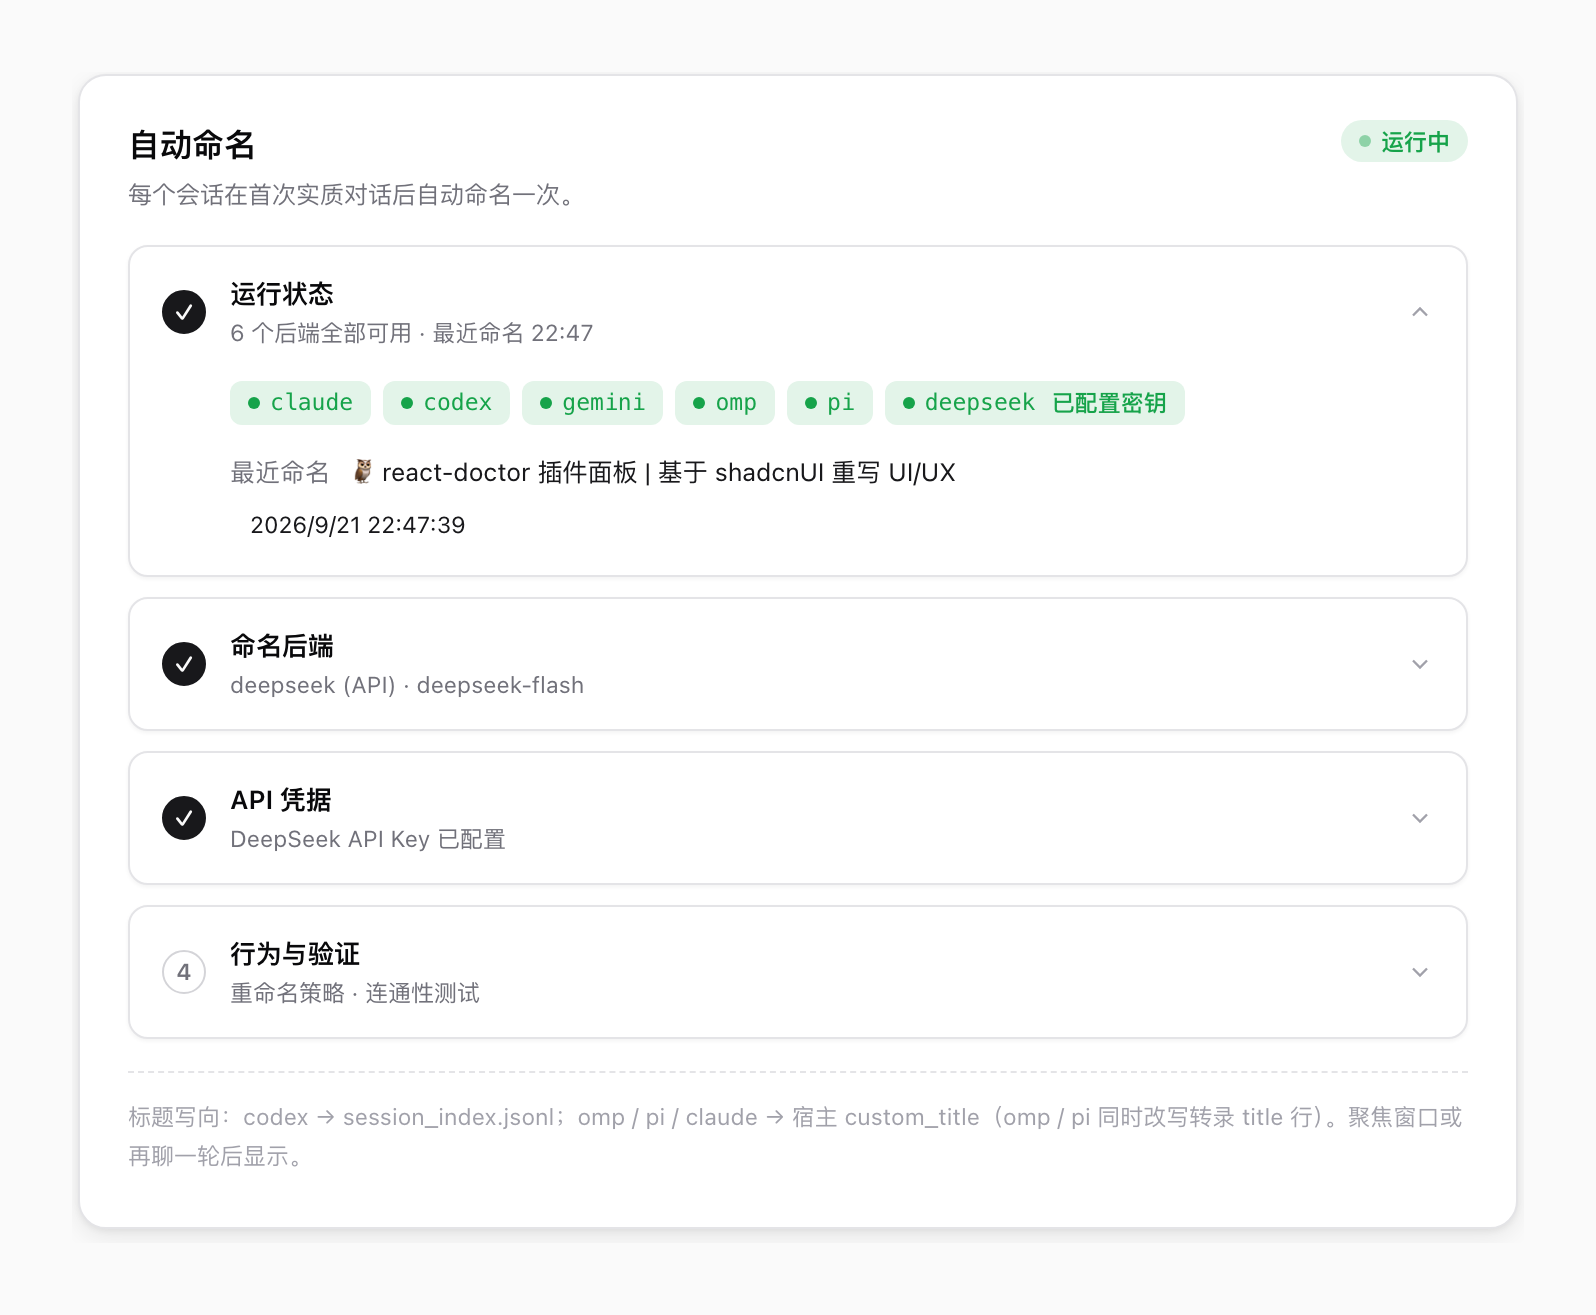
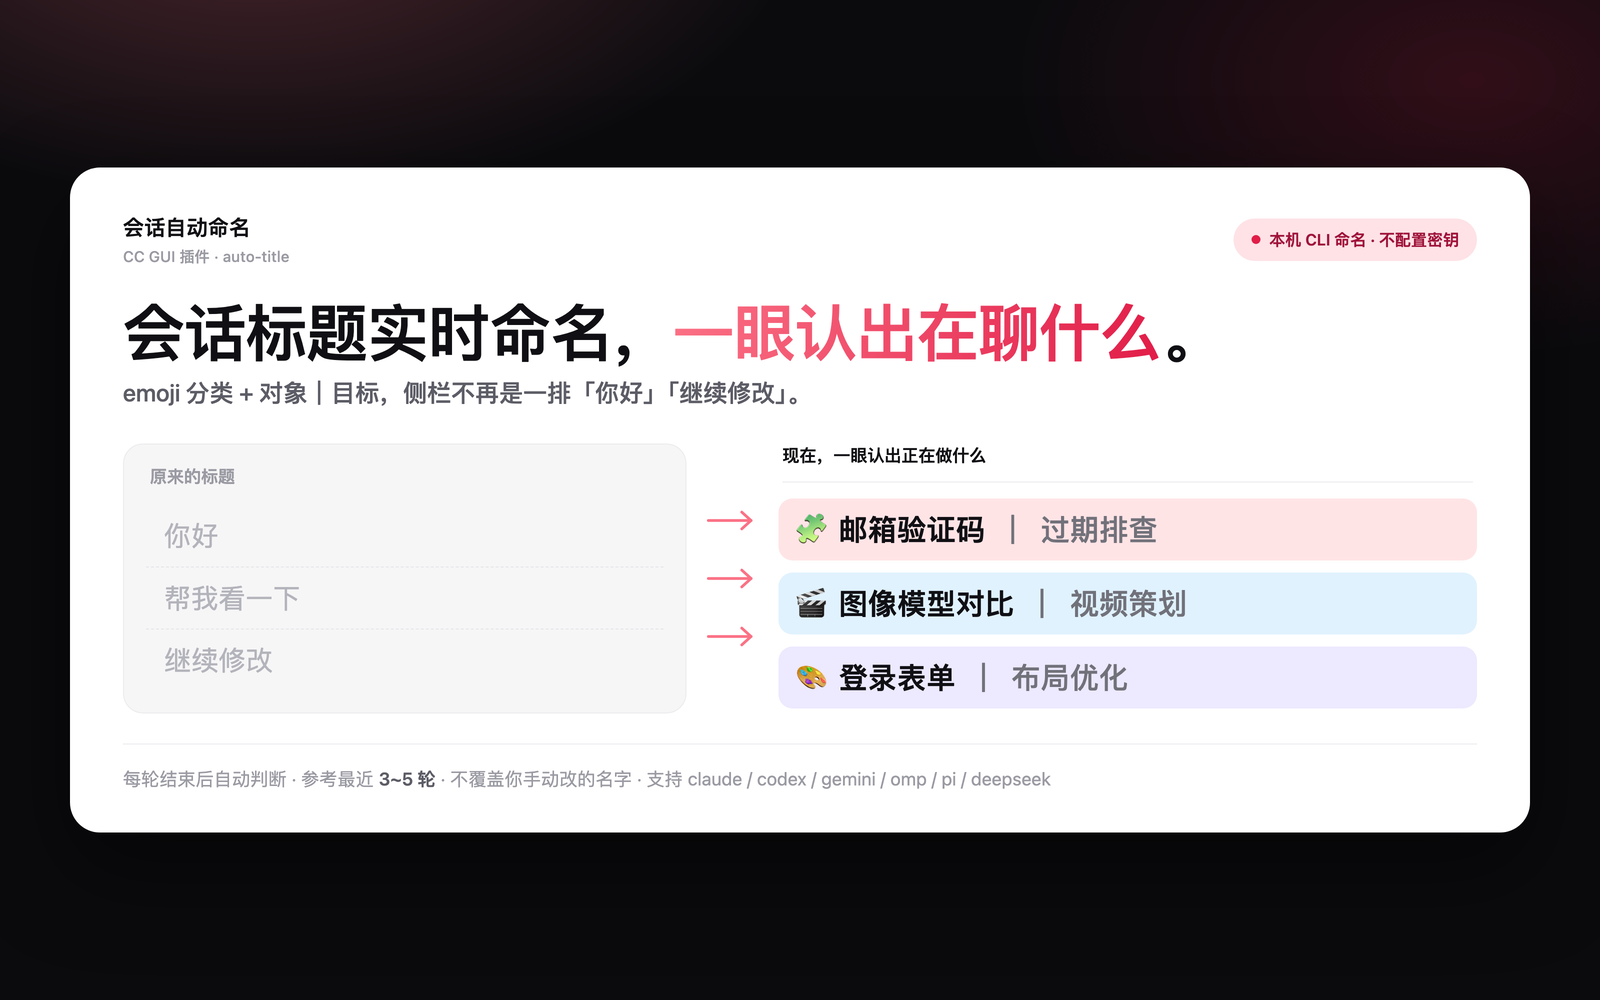
docs: 效果图改版——首图换成标题对照 hero
- 新增 design/auto-title-promo.html：旧标题（你好/帮我看一下/继续修改）→
  新标题（emoji + 对象｜目标）的对照式首图样式，与参考项目 README 同款式样
- docs/screenshot-1.png 换成该 hero（1600×1000）；原设置页浅/深色截图
  顺延为 screenshot-2/3.png，manifest 的 screenshots 同步为 3 张

diff --git a/design/auto-title-promo.html b/design/auto-title-promo.html
@@ -1,0 +1,145 @@
+<!doctype html>
+<html lang="zh-CN">
+<head>
+<meta charset="UTF-8" />
+<title>会话自动命名 · 效果图（hero）</title>
+<style>
+  :root {
+    --rose-1: #fb7185;
+    --rose-2: #e11d48;
+    --ink: #101014;
+    --ink-2: #5c5c66;
+    --ink-3: #9a9aa3;
+    --card: #ffffff;
+    --line: #ececef;
+    --soft: #f6f6f7;
+    --t1: #ffe4e6;
+    --t2: #e0f2fe;
+    --t3: #ede9fe;
+  }
+  * { box-sizing: border-box; }
+  html, body { margin: 0; }
+  body {
+    font-family: -apple-system, BlinkMacSystemFont, "PingFang SC", "Hiragino Sans GB",
+      "Microsoft YaHei", sans-serif;
+    background:
+      radial-gradient(900px 520px at 16% -12%, rgba(251, 113, 133, 0.28), transparent 62%),
+      radial-gradient(760px 460px at 92% 8%, rgba(225, 29, 72, 0.18), transparent 60%),
+      #0b0b0e;
+    min-height: 100vh;
+    display: flex;
+    align-items: center;
+    justify-content: center;
+    padding: 56px 64px;
+  }
+  .card {
+    width: 100%;
+    max-width: 1460px;
+    background: var(--card);
+    border: 1px solid rgba(255, 255, 255, 0.08);
+    border-radius: 30px;
+    padding: 44px 52px 40px;
+    box-shadow: 0 36px 90px rgba(0, 0, 0, 0.5);
+  }
+  .head { display: flex; align-items: center; justify-content: space-between; gap: 24px; }
+  .kicker { font-size: 21px; font-weight: 650; letter-spacing: 0.01em; color: var(--ink); }
+  .kicker small { display: block; margin-top: 4px; font-size: 15px; font-weight: 500; color: var(--ink-3); }
+  .pill {
+    display: inline-flex; align-items: center; gap: 9px;
+    padding: 10px 18px; border-radius: 999px;
+    background: #fee2e6; color: #9f1239;
+    font-size: 16px; font-weight: 600; white-space: nowrap;
+  }
+  .pill i { width: 9px; height: 9px; border-radius: 50%; background: var(--rose-2); }
+  h1 {
+    margin: 30px 0 10px;
+    font-size: 62px; line-height: 1.12; letter-spacing: -0.015em;
+    font-weight: 750; color: var(--ink);
+  }
+  h1 em {
+    font-style: normal;
+    background: linear-gradient(100deg, var(--rose-1), var(--rose-2));
+    -webkit-background-clip: text; background-clip: text; color: transparent;
+  }
+  .sub { margin: 0 0 34px; font-size: 24px; color: var(--ink-2); font-weight: 500; }
+
+  .compare { display: grid; grid-template-columns: 1fr 92px 1.24fr; align-items: stretch; }
+  .col { border-radius: 20px; }
+  .old { background: var(--soft); border: 1px solid var(--line); padding: 20px 22px 22px; }
+  .new { padding: 0; }
+  .col-title { font-size: 17px; font-weight: 650; color: var(--ink-3); margin: 0 4px 16px; }
+  .new .col-title { color: var(--ink); padding-bottom: 14px; border-bottom: 1px solid var(--line); }
+  .row {
+    height: 62px; display: flex; align-items: center; padding: 0 18px;
+    font-size: 27px; color: #b3b3bb; letter-spacing: 0.01em;
+  }
+  .old .row + .row { border-top: 1px dashed #e6e6ea; }
+  .new .row {
+    margin-bottom: 12px; border-radius: 14px; color: var(--ink);
+    font-size: 29px; font-weight: 500;
+  }
+  .new .row:last-child { margin-bottom: 0; }
+  .new .row .emoji { margin-right: 12px; font-size: 30px; }
+  .new .row b { font-weight: 650; }
+  .new .row span { color: #71717a; }
+  .r1 { background: var(--t1); }
+  .r2 { background: var(--t2); }
+  .r3 { background: var(--t3); }
+
+  .arrows { display: flex; flex-direction: column; justify-content: center; align-items: center; gap: 34px; }
+  .arrows svg { width: 52px; height: 24px; color: var(--rose-1); }
+
+  .foot {
+    margin-top: 30px; padding-top: 22px; border-top: 1px solid var(--line);
+    font-size: 18px; color: var(--ink-3); letter-spacing: 0.01em;
+  }
+  .foot b { color: var(--ink-2); font-weight: 600; }
+</style>
+</head>
+<body>
+  <div class="card">
+    <div class="head">
+      <div class="kicker">会话自动命名<small>CC GUI 插件 · auto-title</small></div>
+      <span class="pill"><i></i>本机 CLI 命名 · 不配置密钥</span>
+    </div>
+
+    <h1>会话标题实时命名，<em>一眼认出在聊什么</em>。</h1>
+    <p class="sub">emoji 分类 + 对象｜目标，侧栏不再是一排「你好」「继续修改」。</p>
+
+    <div class="compare">
+      <div class="col old">
+        <div class="col-title">原来的标题</div>
+        <div class="row">你好</div>
+        <div class="row">帮我看一下</div>
+        <div class="row">继续修改</div>
+      </div>
+
+      <div class="arrows">
+        <svg viewBox="0 0 56 24" fill="none" stroke="currentColor" stroke-width="3"
+             stroke-linecap="round" stroke-linejoin="round" aria-hidden="true">
+          <path d="M2 12h46" /><path d="M38 3l10 9-10 9" />
+        </svg>
+        <svg viewBox="0 0 56 24" fill="none" stroke="currentColor" stroke-width="3"
+             stroke-linecap="round" stroke-linejoin="round" aria-hidden="true">
+          <path d="M2 12h46" /><path d="M38 3l10 9-10 9" />
+        </svg>
+        <svg viewBox="0 0 56 24" fill="none" stroke="currentColor" stroke-width="3"
+             stroke-linecap="round" stroke-linejoin="round" aria-hidden="true">
+          <path d="M2 12h46" /><path d="M38 3l10 9-10 9" />
+        </svg>
+      </div>
+
+      <div class="col new">
+        <div class="col-title">现在，一眼认出正在做什么</div>
+        <div class="row r1"><span class="emoji">🧩</span><b>邮箱验证码</b>&nbsp;&nbsp;<span>｜&nbsp;&nbsp;过期排查</span></div>
+        <div class="row r2"><span class="emoji">🎬</span><b>图像模型对比</b>&nbsp;&nbsp;<span>｜&nbsp;&nbsp;视频策划</span></div>
+        <div class="row r3"><span class="emoji">🎨</span><b>登录表单</b>&nbsp;&nbsp;<span>｜&nbsp;&nbsp;布局优化</span></div>
+      </div>
+    </div>
+
+    <div class="foot">
+      每轮结束后自动判断 · 参考最近 <b>3~5 轮</b> · 不覆盖你手动改的名字 · 支持 claude / codex / gemini / omp / pi / deepseek
+    </div>
+  </div>
+</body>
+</html>

diff --git a/README.md b/README.md
@@ -4,14 +4,17 @@
 
 ## 界面
 
-设置 → 插件 → 自动命名（引导步骤）：
+![旧标题 → 新标题](docs/screenshot-1.png)
+
+设置 → 插件 → 自动命名（引导步骤），浅色 / 深色：
 
 | 浅色 | 深色 |
 | --- | --- |
-| ![设置页 浅色](docs/screenshot-1.png) | ![设置页 深色](docs/screenshot-2.png) |
+| ![设置页 浅色](docs/screenshot-2.png) | ![设置页 深色](docs/screenshot-3.png) |
 
-> 素材放在 `docs/`，由 `manifest.json` 的 `icon` / `screenshots` 声明，市场详情页
-> 图集按默认分支直接读取——换图不需要发版。
+> 首图由 `design/auto-title-promo.html` 渲染（标题对照款式）；素材放在 `docs/`，
+> 由 `manifest.json` 的 `icon` / `screenshots` 声明，市场详情页图集按默认分支
+> 直接读取——换图不需要发版。
 
 ## 支持的引擎与标题通道
 
